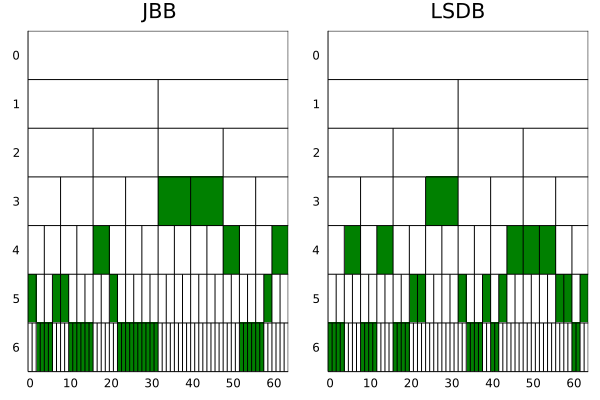
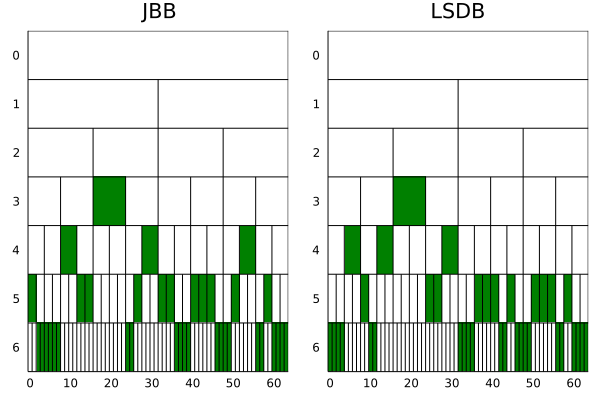
Fix wiggle plots in JOSS.

Changed region(s): [[0.09, 0.42, 0.48, 0.93], [0.6, 0.42, 0.99, 0.93]]

diff --git a/paper/paper.md b/paper/paper.md
@@ -67,7 +67,7 @@ x = generatesignals(:heavysine, 8) |>
     x -> duplicatesignals(x, 100, 2, true, 0.5)
 
 # Wavelet packet decomposition of all signals
-xw = wpdall(x, wt)
+xw = wpdall(x, wt, 6)
 
 # ----- Joint Best Basis (JBB)
 tree = bestbasistree(xw, JBB())
@@ -145,7 +145,7 @@ p1 = plot(cylinder, bell, funnel, layout=(3,1))
 wt = wavelet(WT.coif4)
 ldb = LocalDiscriminantBasis(
   wt=wt,
-  max_dec_level=7,
+  max_dec_level=6,
   dm=SymmetricRelativeEntropy(),
   en=TimeFrequency(),
   dp=BasisDiscriminantMeasure(),
